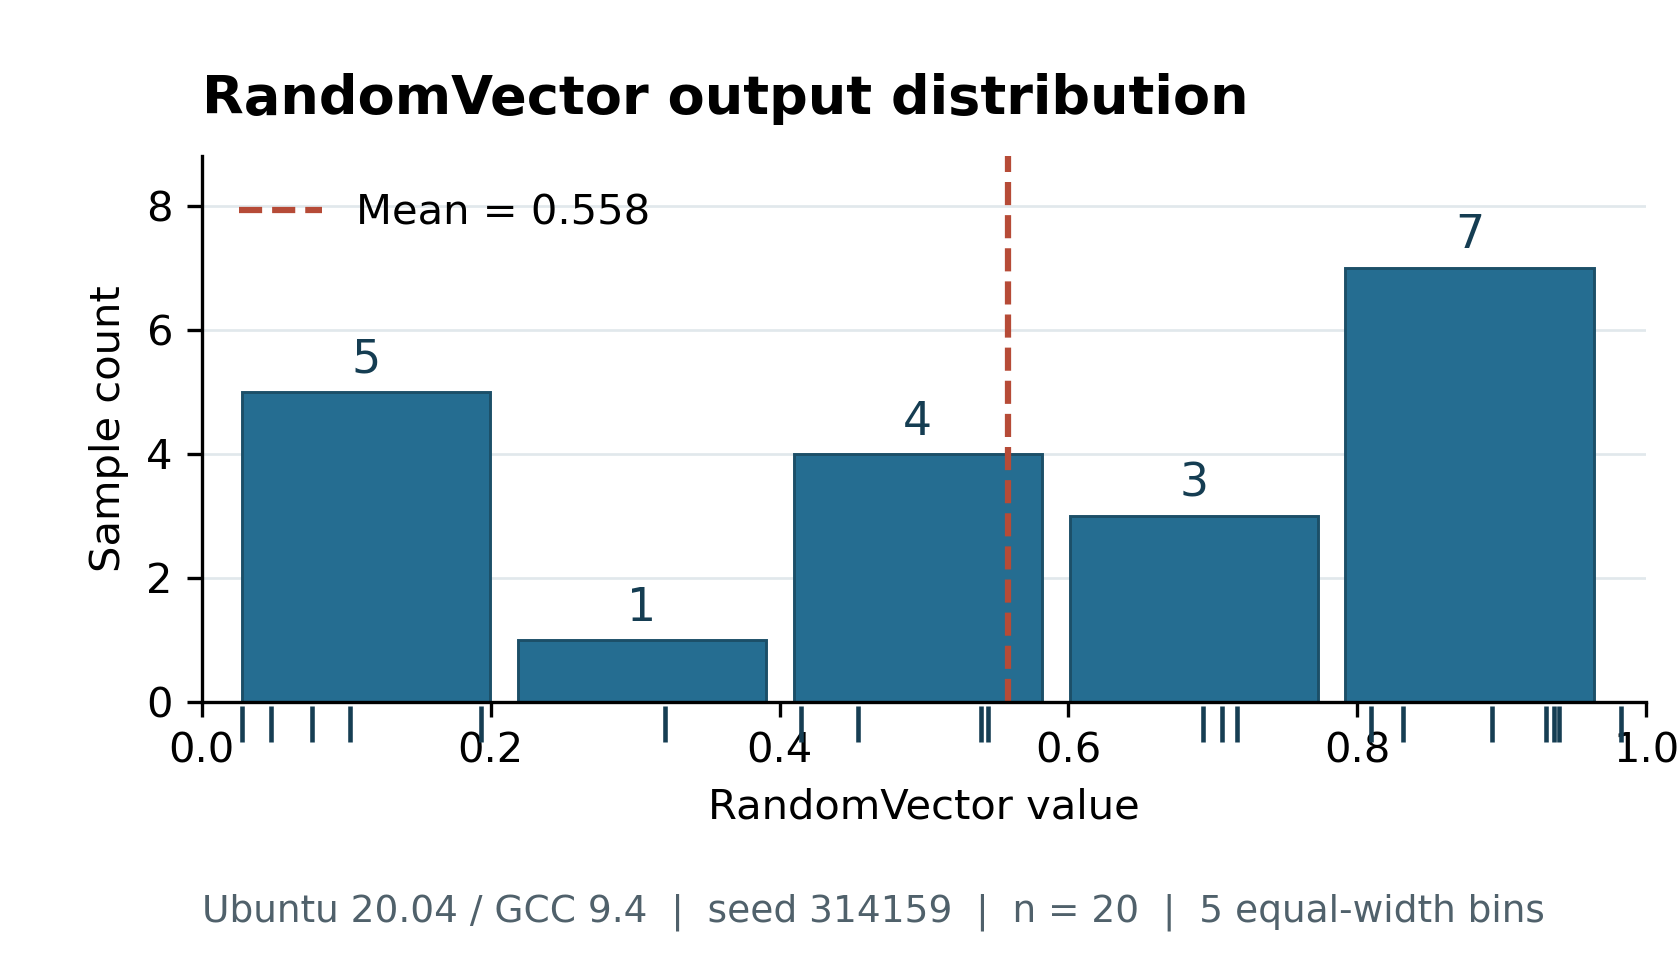
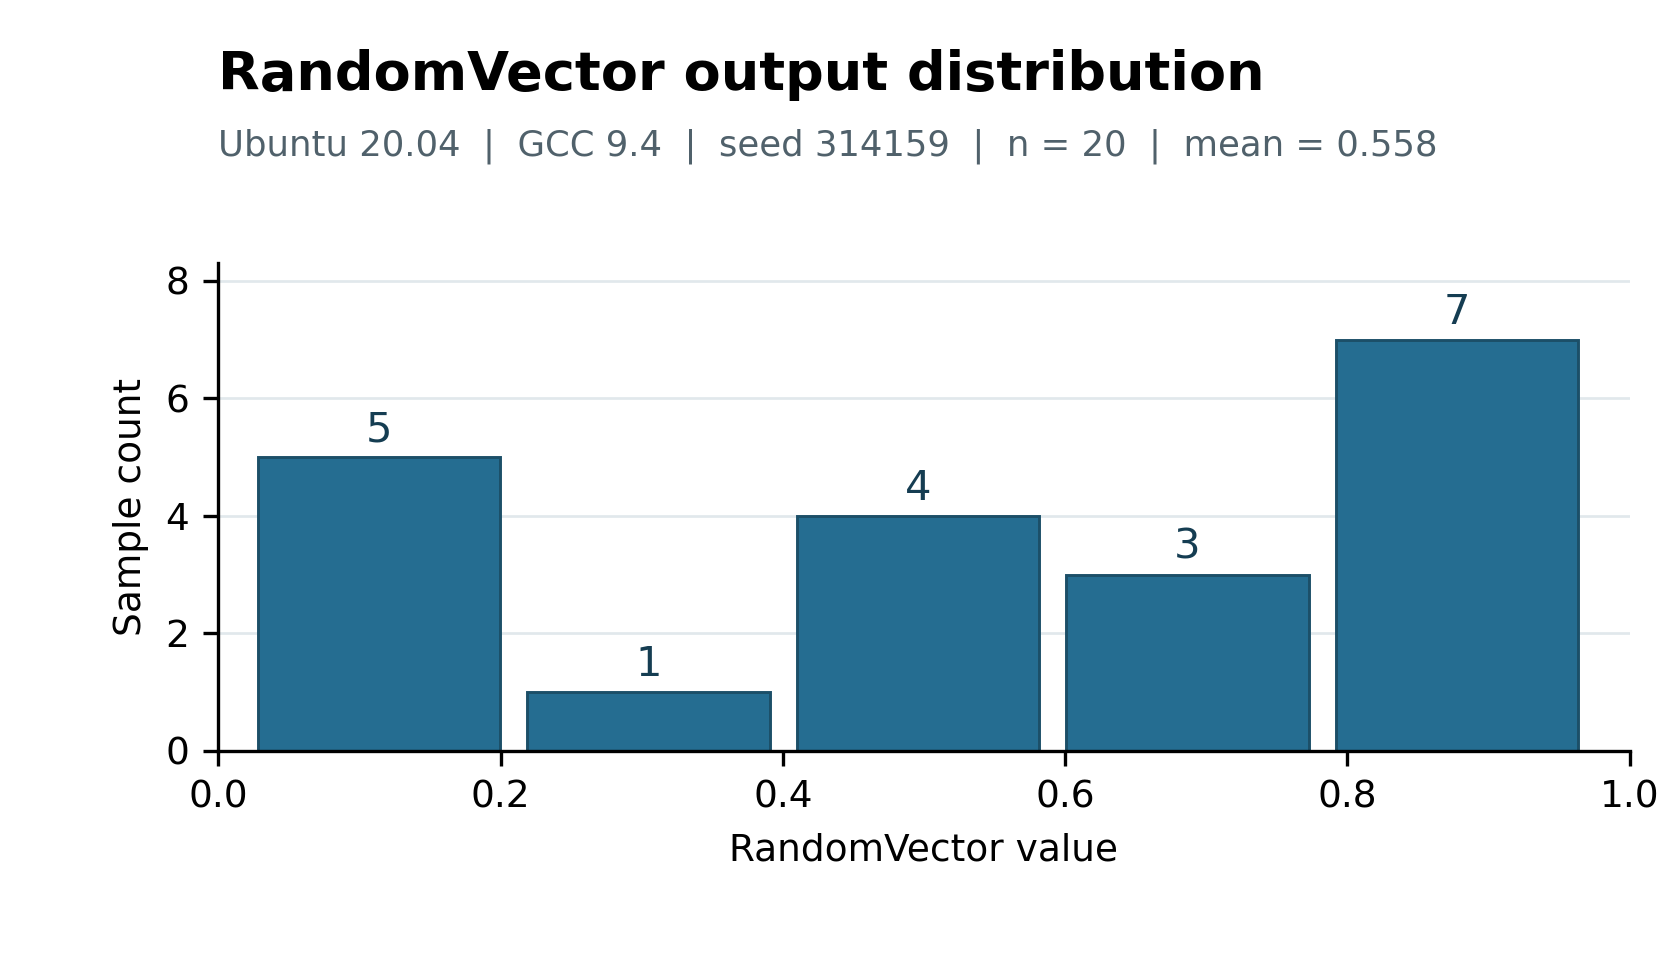
Fix histogram label overlap

diff --git a/make_histogram.py b/make_histogram.py
@@ -39,7 +39,7 @@ with (out / "random_vector_samples.csv").open("w", newline="", encoding="utf-8")
 
 plt.rcParams.update({
     "font.family": "DejaVu Sans",
-    "font.size": 10,
+    "font.size": 9,
     "axes.spines.top": False,
     "axes.spines.right": False,
     "svg.fonttype": "none",
@@ -47,34 +47,28 @@ plt.rcParams.update({
 fig, ax = plt.subplots(figsize=(5.6, 3.25), dpi=300)
 fig.patch.set_facecolor("white")
 ax.set_facecolor("white")
+fig.subplots_adjust(left=0.13, right=0.97, top=0.73, bottom=0.23)
+fig.suptitle("RandomVector output distribution", x=0.13, y=0.95,
+             ha="left", fontsize=13, fontweight="bold")
+fig.text(0.13, 0.84,
+         f"Ubuntu 20.04  |  GCC 9.4  |  seed 314159  |  n = 20  |  mean = {mean:.3f}",
+         fontsize=8.5, color="#50616b")
 widths = np.diff(edges)
 bars = ax.bar(
     edges[:-1], counts, width=widths * 0.90, align="edge",
     color="#256d91", edgecolor="#1c4f68", linewidth=0.7,
 )
 for bar, count in zip(bars, counts):
-    ax.text(bar.get_x() + bar.get_width() / 2, count + 0.15,
-            str(int(count)), ha="center", va="bottom", fontsize=11, color="#153d52")
-
-ax.axvline(mean, color="#b64b37", linewidth=1.5, linestyle="--",
-           label=f"Mean = {mean:.3f}")
-ax.scatter(values, np.full_like(values, -0.35), marker="|", s=75,
-           linewidths=1.1, color="#163e53", clip_on=False, zorder=4)
+    ax.text(bar.get_x() + bar.get_width() / 2, count + 0.12,
+            str(int(count)), ha="center", va="bottom", fontsize=10, color="#153d52")
 ax.set_xlim(0, 1)
-ax.set_ylim(0, max(counts) + 1.8)
-ax.set_yticks(range(0, int(max(counts)) + 2, 2))
+ax.set_ylim(0, 8.3)
+ax.set_yticks([0, 2, 4, 6, 8])
 ax.set_xticks([0, 0.2, 0.4, 0.6, 0.8, 1.0])
 ax.grid(axis="y", color="#e1e8ec", linewidth=0.65)
 ax.set_axisbelow(True)
 ax.set_xlabel("RandomVector value")
 ax.set_ylabel("Sample count")
-ax.set_title("RandomVector output distribution", loc="left", fontsize=13,
-             fontweight="bold", pad=10)
-ax.legend(frameon=False, loc="upper left", fontsize=10)
-fig.text(0.12, 0.055,
-         f"Ubuntu 20.04 / GCC 9.4  |  seed 314159  |  n = 20  |  5 equal-width bins",
-         fontsize=9, color="#50616b")
-fig.subplots_adjust(left=0.12, right=0.98, top=0.84, bottom=0.28)
 fig.savefig(out / "random_vector_histogram.png", dpi=300, facecolor="white")
 fig.savefig(out / "random_vector_histogram.svg", facecolor="white")
 plt.close(fig)

diff --git a/README.md b/README.md
@@ -29,6 +29,6 @@ The saved run logs and Git conflict files are in `evidence/`. To inspect the ori
 
 ![Five-bin RandomVector histogram](figures/random_vector_histogram.png)
 
-The plot uses the 20 observed values from `evidence/direct_compile_result.txt`. Bin counts are **5, 1, 4, 3, 7**. Tick marks show individual samples and the dashed line shows the mean. Download the [PNG](figures/random_vector_histogram.png), [editable SVG](figures/random_vector_histogram.svg), or [sample CSV](figures/random_vector_samples.csv). To regenerate the figure, install `numpy` and `matplotlib`, then run `python make_histogram.py`.
+The plot uses the 20 observed values from `evidence/direct_compile_result.txt`. Bin counts are **5, 1, 4, 3, 7**; the mean appears above the plot. Download the [PNG](figures/random_vector_histogram.png), [editable SVG](figures/random_vector_histogram.svg), or [sample CSV](figures/random_vector_samples.csv). To regenerate the figure, install `numpy` and `matplotlib`, then run `python make_histogram.py`.
 
 The `RandomVector` starter files were obtained from [MIT-SPARK/VNAV-labs](https://github.com/MIT-SPARK/VNAV-labs/tree/master/lab1). Experimental changes, test code, scripts, and visualization are included here.
